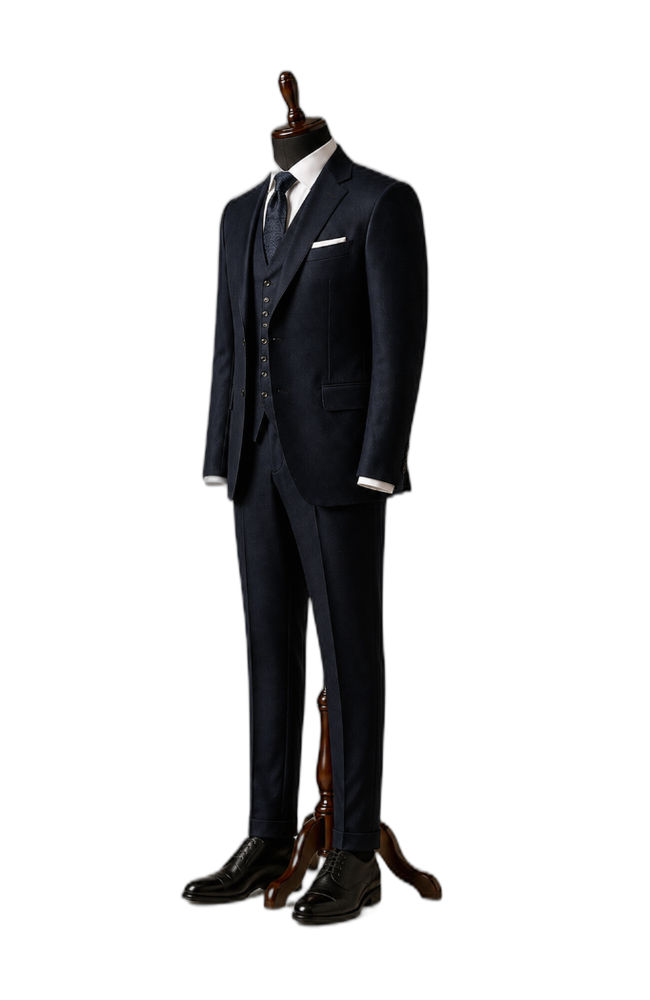
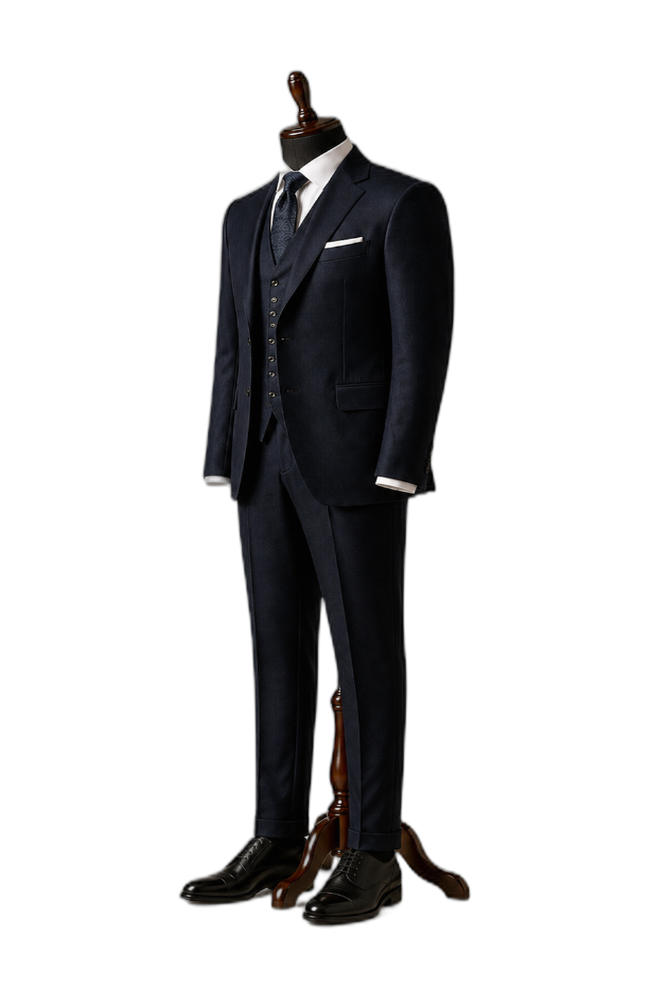
Set both story section mannequins to exact same height line, base line, width, and size

Changed region(s): [[0.3077, 0.062, 0.7385, 0.93], [0.2769, 0.868, 0.3077, 0.899]]

diff --git a/index.html b/index.html
@@ -804,7 +804,7 @@
             
             <!-- Left Side: Wedding Sherwani Mannequin Cutout (No Background) -->
             <div class="hidden lg:block lg:w-[200px] xl:w-[260px] 2xl:w-[285px] shrink-0 transition-transform duration-500 hover:scale-105 self-end">
-                <img src="assets/mannequin_wedding_sherwani_transparent.png" alt="TOOFIT Bespoke Royal Wedding Sherwani" class="w-full h-auto block filter drop-shadow-[0_12px_24px_rgba(0,0,0,0.18)]">
+                <img src="assets/mannequin_wedding_sherwani_transparent.png?v=7" alt="TOOFIT Bespoke Royal Wedding Sherwani" class="w-full h-auto block filter drop-shadow-[0_12px_24px_rgba(0,0,0,0.18)]">
             </div>
 
             <!-- Center: Framed Studio Manifesto Image with minimal "OUR STORY" link -->
@@ -822,7 +822,7 @@
 
             <!-- Right Side: Formal Suitwear Mannequin Cutout (No Background) -->
             <div class="hidden lg:block lg:w-[200px] xl:w-[260px] 2xl:w-[285px] shrink-0 transition-transform duration-500 hover:scale-105 self-end">
-                <img src="assets/mannequin_formal_suit_transparent.png?v=6" alt="TOOFIT Bespoke Formal Suitwear with Shoes" class="w-full h-auto block filter drop-shadow-[0_12px_24px_rgba(0,0,0,0.18)]">
+                <img src="assets/mannequin_formal_suit_transparent.png?v=7" alt="TOOFIT Bespoke Formal Suitwear with Shoes" class="w-full h-auto block filter drop-shadow-[0_12px_24px_rgba(0,0,0,0.18)]">
             </div>
 
         </div>
